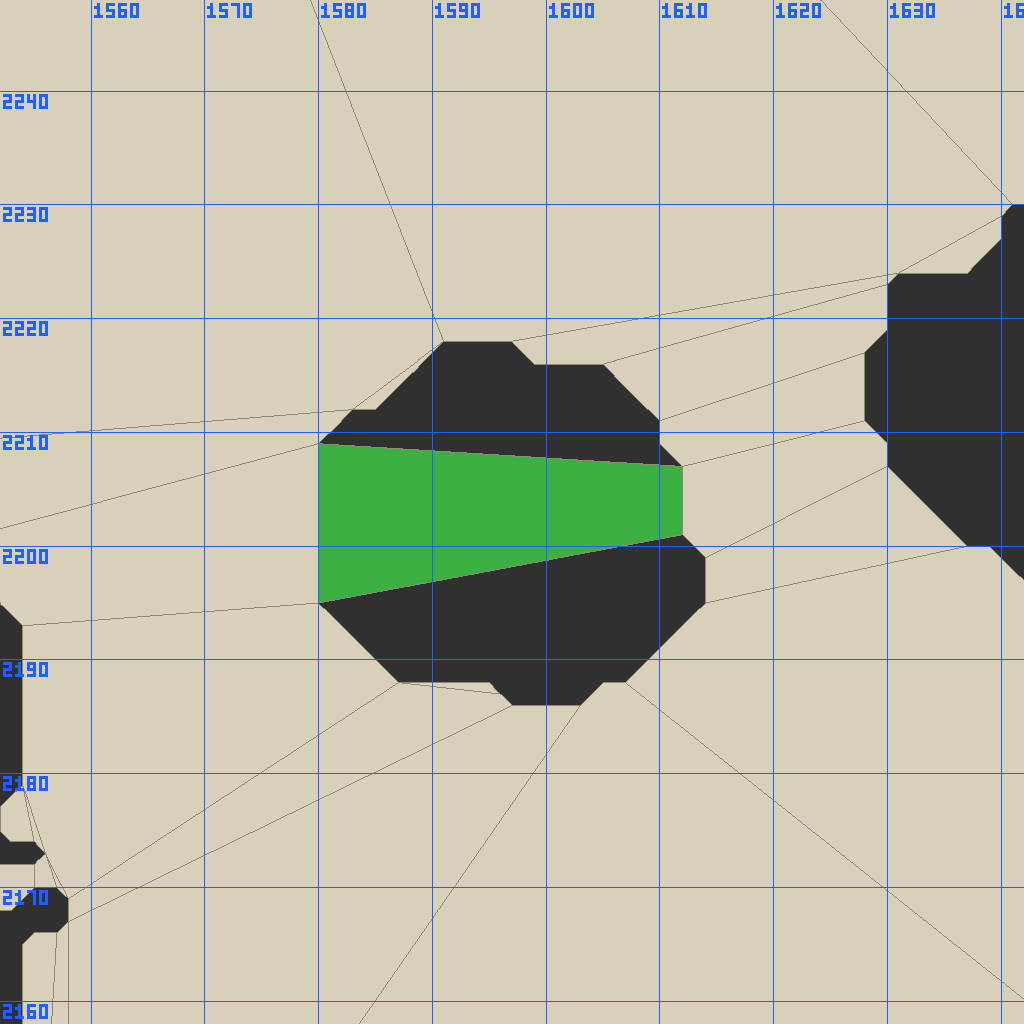
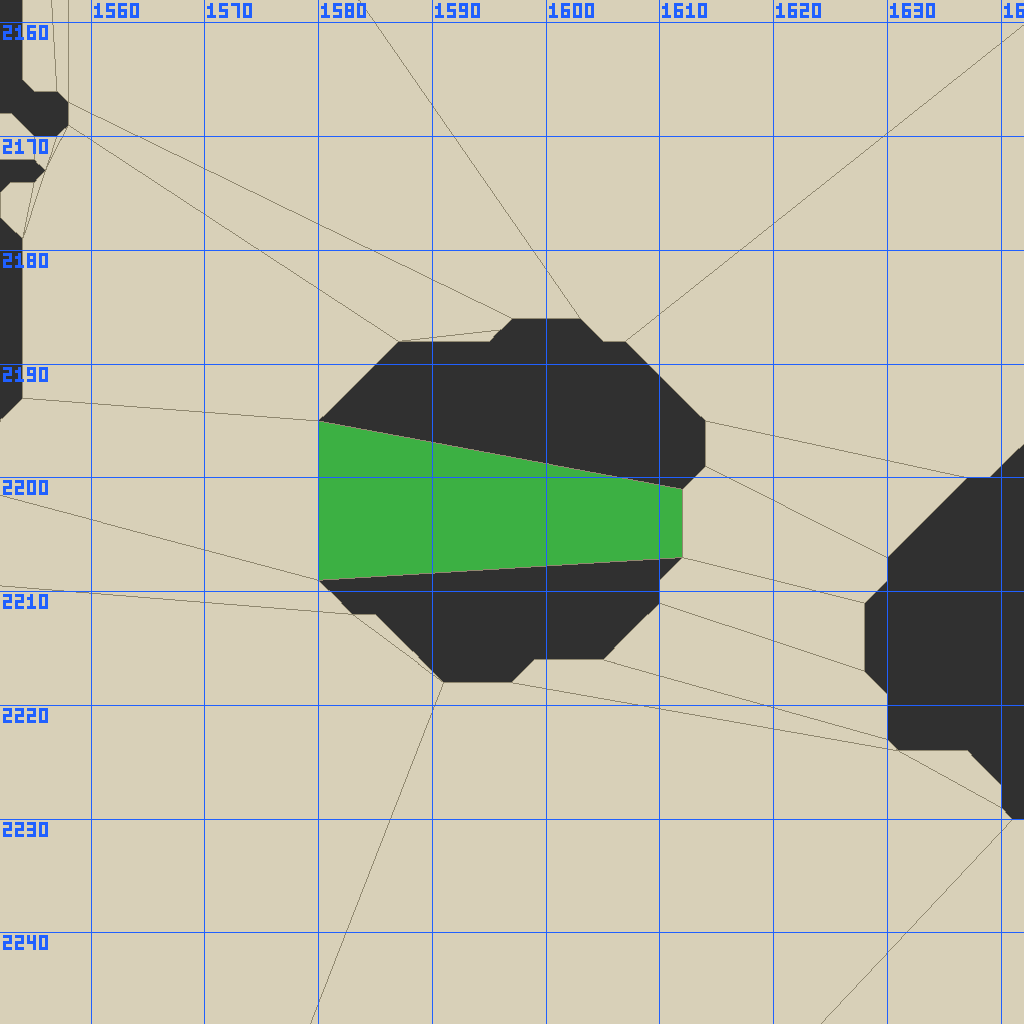
fix: match navmesh PNG orientation to the world map

diff --git a/png.go b/png.go
@@ -37,14 +37,14 @@ func text(img *image.RGBA, x, y int, s string, c color.RGBA) {
 	}
 }
 
-// writePNG draws the square [cx-r, cx+r] x [cy-r, cy+r] with +y up: walkable cells light, holes dark,
+// writePNG draws the square [cx-r, cx+r] x [cy-r, cy+r] with +y down as in the world map: walkable cells light, holes dark,
 // added cells green, and a labelled coordinate grid (vertical lines are x, horizontal lines are y).
 func writePNG(m *Mesh, added []*Cell, cx, cy, r float64, path string) error {
 	img := image.NewRGBA(image.Rect(0, 0, imgSize, imgSize))
 	s := imgSize / (2 * r)
-	toPx := func(p [2]float64) (float64, float64) { return (p[0] - cx + r) * s, (cy + r - p[1]) * s }
+	toPx := func(p [2]float64) (float64, float64) { return (p[0] - cx + r) * s, (p[1] - cy + r) * s }
 	toW := func(px, py int) [2]float64 {
-		return [2]float64{cx - r + (float64(px)+.5)/s, cy + r - (float64(py)+.5)/s}
+		return [2]float64{cx - r + (float64(px)+.5)/s, cy - r + (float64(py)+.5)/s}
 	}
 	for i := range img.Pix {
 		img.Pix[i] = 0x30
@@ -59,8 +59,8 @@ func writePNG(m *Mesh, added []*Cell, cx, cy, r float64, path string) error {
 	walk, green, line := color.RGBA{0xd8, 0xd0, 0xb8, 0xff}, color.RGBA{0x3c, 0xb0, 0x43, 0xff}, color.RGBA{0x90, 0x88, 0x70, 0xff}
 	for _, c := range m.Cells {
 		lo, hi := bounds(m, c.Poly)
-		x0, y1 := toPx(lo)
-		x1, y0 := toPx(hi)
+		x0, y0 := toPx(lo)
+		x1, y1 := toPx(hi)
 		if x1 < 0 || y1 < 0 || x0 >= imgSize || y0 >= imgSize {
 			continue
 		}
@@ -115,7 +115,7 @@ func writePNG(m *Mesh, added []*Cell, cx, cy, r float64, path string) error {
 		f.Close()
 		return err
 	}
-	fmt.Printf("wrote %s: x %.1f..%.1f left to right, y %.1f..%.1f bottom to top, grid every %g\n", path, cx-r, cx+r, cy-r, cy+r, step)
+	fmt.Printf("wrote %s: x %.1f..%.1f left to right, y %.1f..%.1f top to bottom, grid every %g\n", path, cx-r, cx+r, cy-r, cy+r, step)
 	return f.Close()
 }
 

diff --git a/nav_test.go b/nav_test.go
@@ -2,7 +2,10 @@ package main
 
 import (
 	"bytes"
+	"image/color"
+	"image/png"
 	"os"
+	"path/filepath"
 	"strings"
 	"testing"
 )
@@ -88,5 +91,27 @@ func TestBridgeRefuses(t *testing.T) {
 		if err == nil || !strings.Contains(err.Error(), tc.want) {
 			t.Errorf("%v %v: err %v, want %q", tc.p1, tc.p2, err, tc.want)
 		}
+	}
+}
+
+func TestPNGWorldOrientation(t *testing.T) {
+	m := strip()
+	// Highlight the cell with the highest x and lowest y.
+	path := filepath.Join(t.TempDir(), "map.png")
+	if err := writePNG(m, m.Cells[2:3], 1.5, 1.5, 1.5, path); err != nil {
+		t.Fatal(err)
+	}
+	f, err := os.Open(path)
+	if err != nil {
+		t.Fatal(err)
+	}
+	defer f.Close()
+	img, err := png.Decode(f)
+	if err != nil {
+		t.Fatal(err)
+	}
+	got := color.RGBAModel.Convert(img.At(3*imgSize/4, imgSize/4))
+	if want := (color.RGBA{0x3c, 0xb0, 0x43, 0xff}); got != want {
+		t.Fatalf("top-right cell has color %v, want %v", got, want)
 	}
 }

diff --git a/main.go b/main.go
@@ -10,7 +10,7 @@ import (
 	"strings"
 )
 
-const version = "1.0.0"
+const version = "1.0.1"
 
 const usage = `navtool ` + version + ` - walkable roads through Wartales world-map towns (navmesh.dat)
 

diff --git a/README.md b/README.md
@@ -25,7 +25,7 @@ navtool apply <ванильный navmesh.dat> <spec.txt> <новый navmesh.da
 
 1. **Ванильный файл.** Достаньте quickbms из `assets.pak` файл `assets/worldmap/collides/navmesh.dat` (как и другие файлы). Всегда работайте от *ванильного* файла.
 2. **Найдите город.** Координаты всех городов: [docs/towns.md](docs/towns.md). Или: `x`/`y` города в `content/regions/<Регион>/POI/Region*.prefab`, затем `navtool holes navmesh.dat <x> <y> 40` — покажет дыру города.
-3. **Картинка.** `navtool png navmesh.dat 1597 2203 45 town.png` — светлое = проходимо, тёмное = дыры, синяя сетка подписана координатами (x слева направо, y снизу вверх; подпись линии — её значение).
+3. **Картинка.** `navtool png navmesh.dat 1597 2203 45 town.png` — светлое = проходимо, тёмное = дыры, синяя сетка подписана координатами (x растёт вправо, y растёт вниз, как на карте мира).
 4. **Spec.** Выберите две точки на краю тёмной дыры, где дорога входит и выходит (до края ≤ 10 единиц), запишите `bridge x1 y1 x2 y2`.
 5. **Проверка.** `navtool png navmesh.dat 1597 2203 45 check.png spec.txt` — мост зелёный.
 6. **Сборка.** `navtool apply navmesh.dat spec.txt navmesh.new` → `line 1: new cell 184806 joins cells 95516 and 99895`.
